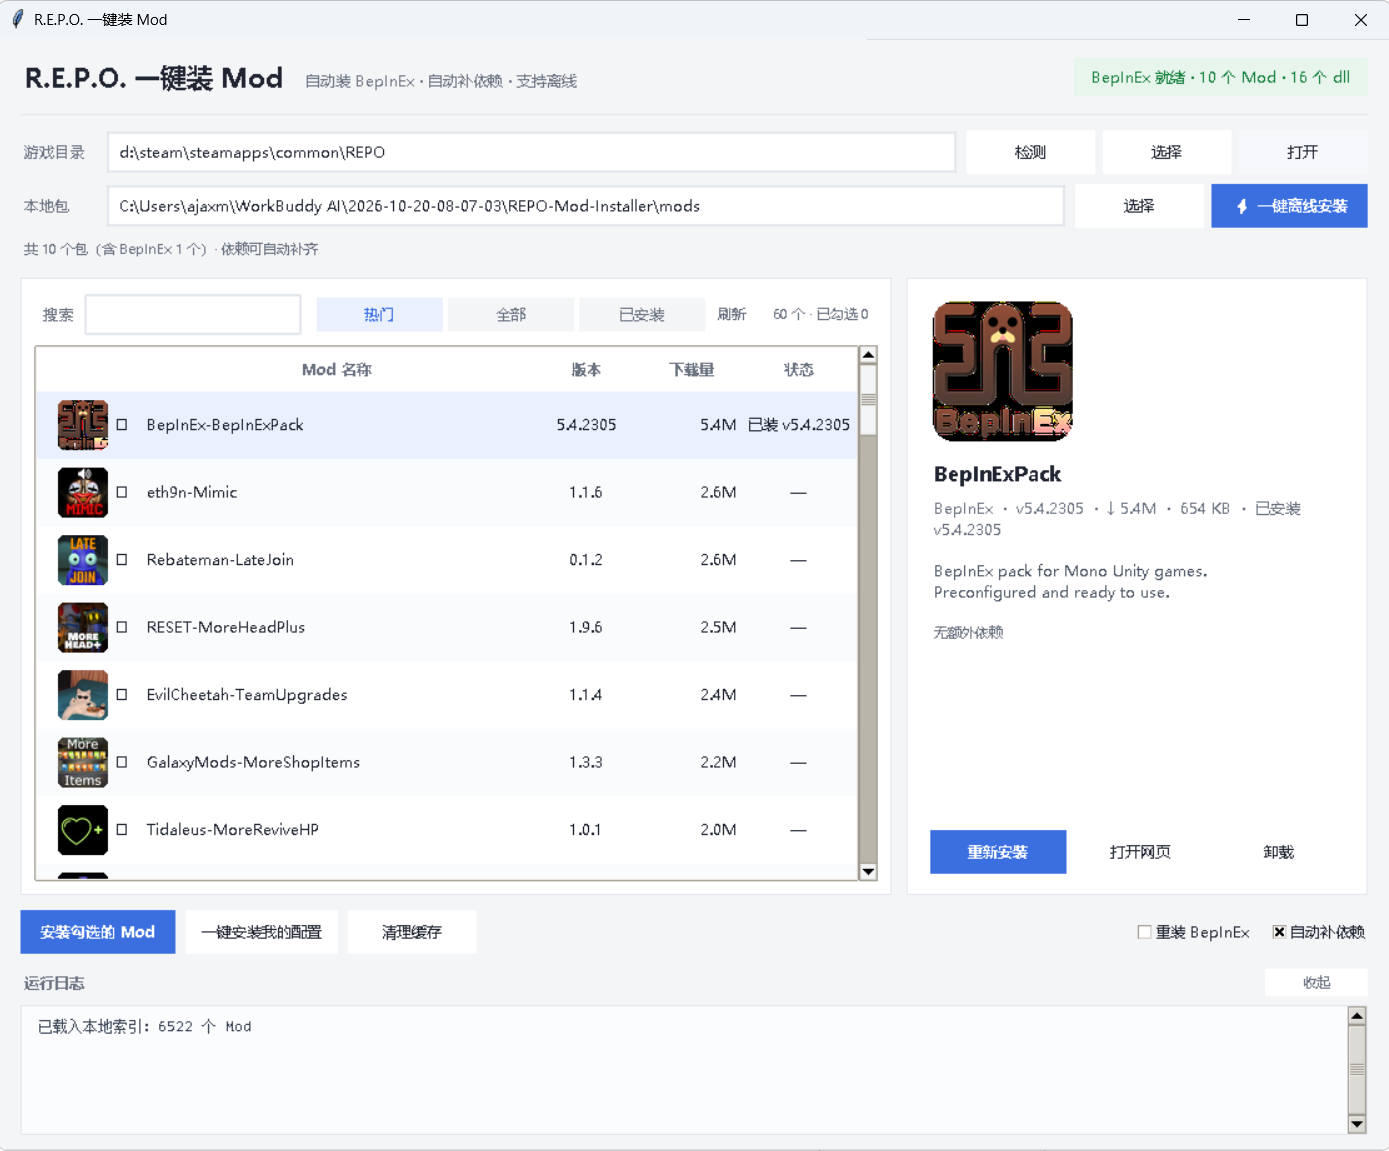
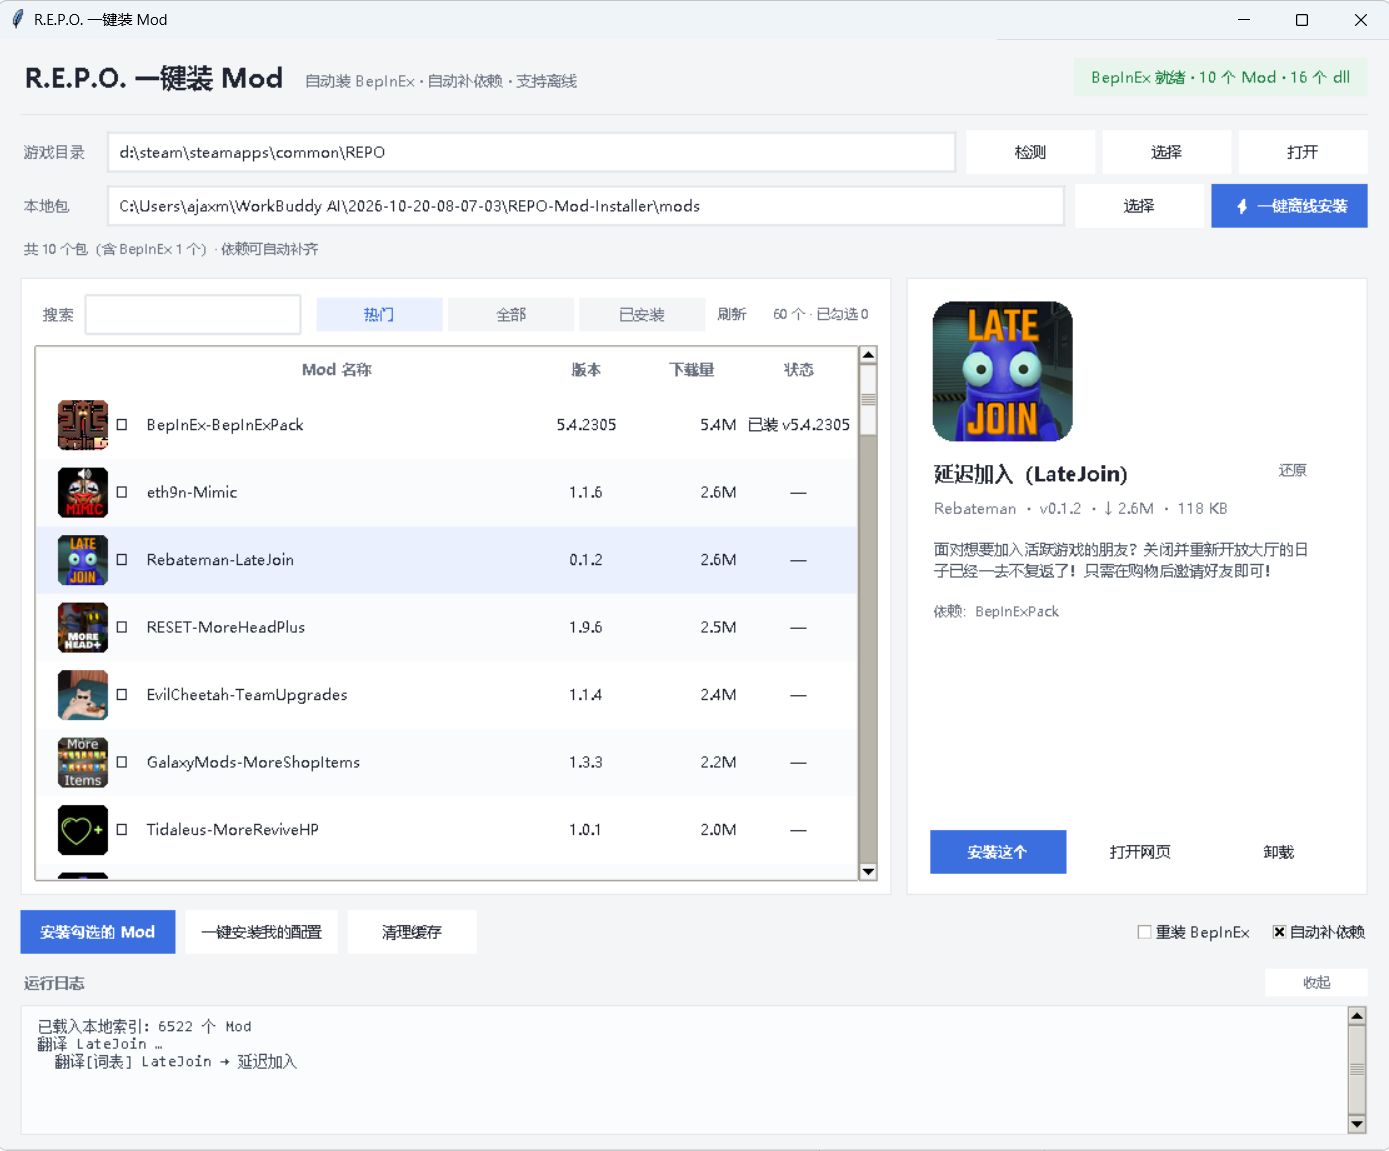
feat: 详情面板加「翻译」按钮，Mod 名字和简介一键中文化
- core: 新增免费翻译模块，Google(gtx) + MyMemory 双源自动切换，无需 API Key
- 启动时后台探测 Google 连通性；没配代理会顺手试本机 7897/7890 等常见端口
- 名字优先走内置词表（按社区 6522 个包的实际用词统计）：MoreShopItems → 更多商店物品，
  不联网、确定性输出；词表未覆盖的专有名词才走在线翻译
- 简介走在线接口，译文缓存到 data/translate_cache.json，二次点击秒出且断网可用
- 翻译结果经队列回主线程落地，避免跨线程操作 Tk
- 翻译期间切换选中项会丢弃过期结果，不会写到别的 Mod 详情里
- README 增加翻译章节与 FAQ

diff --git a/core.py b/core.py
@@ -17,6 +17,7 @@ import re
 import sys
 import json
 import time
+import html
 import shutil
 import zipfile
 import tempfile
@@ -1073,3 +1074,259 @@ def check_dependencies():
             "缺少 requests 库。请在命令行运行：\n    pip install requests\n"
             "或者直接运行 启动.bat（会自动安装）"
         )
+
+
+# ============================================================
+# 翻译（免费源，不需要 API Key）
+# ============================================================
+
+TRANS_CACHE_PATH = DATA_DIR / "translate_cache.json"
+TRANS_CACHE_MAX = 3000          # 缓存条数上限，超了丢最旧的
+
+_trans_mem = None               # 内存缓存，避免每次点都读盘
+
+
+def _load_trans_cache():
+    global _trans_mem
+    if _trans_mem is not None:
+        return _trans_mem
+    data = {}
+    try:
+        if TRANS_CACHE_PATH.exists():
+            with open(TRANS_CACHE_PATH, "r", encoding="utf-8") as f:
+                raw = json.load(f)
+            if isinstance(raw, dict):
+                data = raw
+    except Exception:
+        data = {}
+    _trans_mem = data
+    return data
+
+
+def _save_trans_cache(cache):
+    global _trans_mem
+    _trans_mem = cache
+    try:
+        if len(cache) > TRANS_CACHE_MAX:
+            for k in list(cache.keys())[:len(cache) - TRANS_CACHE_MAX]:
+                cache.pop(k, None)
+        DATA_DIR.mkdir(parents=True, exist_ok=True)
+        with open(TRANS_CACHE_PATH, "w", encoding="utf-8") as f:
+            json.dump(cache, f, ensure_ascii=False)
+    except Exception:
+        pass
+
+
+def _tr_google(text, target, proxy, timeout=8):
+    """Google 翻译的免费网页接口（client=gtx），无需 Key"""
+    r = _session(proxy).get(
+        "https://translate.googleapis.com/translate_a/single",
+        params={"client": "gtx", "sl": "auto", "tl": target, "dt": "t", "q": text},
+        timeout=timeout,
+    )
+    r.raise_for_status()
+    data = r.json()
+    out = "".join(seg[0] for seg in data[0] if seg and seg[0])
+    return out.strip()
+
+
+def _tr_mymemory(text, target, proxy, timeout=8):
+    """MyMemory 免费接口，匿名每天 5000 字符，国内可直连"""
+    r = _session(proxy).get(
+        "https://api.mymemory.translated.net/get",
+        params={"q": text[:480], "langpair": f"en|{target}"},
+        timeout=timeout,
+    )
+    r.raise_for_status()
+    d = r.json()
+    out = ((d.get("responseData") or {}).get("translatedText") or "").strip()
+    if not out or "MYMEMORY WARNING" in out.upper() or "QUOTA" in out.upper():
+        raise RuntimeError("免费额度用尽或返回异常")
+    return html.unescape(out)
+
+
+TRANS_PROVIDERS = [("google", _tr_google), ("mymemory", _tr_mymemory)]
+
+_GOOGLE_OK = None               # 启动时探测结果，None = 还没测
+_AUTO_PROXY = ""                # 探测到的本机代理，仅用于翻译
+
+# 常见本地代理端口（Clash / V2Ray / Shadowsocks）
+_LOCAL_PROXY_PORTS = ("7897", "7890", "10809", "10808", "1080")
+
+# 这些是专有名词，拆开反而翻不出来（BepInExPack 不能变成 Bep In Ex Pack）
+_TRANS_KEEP = ("bepinex", "repolib", "menulib", "lethallib", "xunity",
+               "autotranslator")
+
+
+def probe_translation(proxy="", log=None):
+    """
+    后台探一下 Google 能不能连上，能连就优先用它（译文质量比 MyMemory 好）。
+    没配代理时顺手试试本机常见代理端口，通了就自动借用，只影响翻译。
+    """
+    global _GOOGLE_OK, _AUTO_PROXY
+    if _GOOGLE_OK is not None:
+        return _GOOGLE_OK
+
+    if proxy:
+        try:
+            _tr_google("hello", "zh-CN", proxy, timeout=3)
+            _GOOGLE_OK, _AUTO_PROXY = True, proxy
+            return True
+        except Exception:
+            pass
+    else:
+        try:
+            _tr_google("hello", "zh-CN", "", timeout=3)
+            _GOOGLE_OK = True
+            return True
+        except Exception:
+            pass
+        for port in _LOCAL_PROXY_PORTS:
+            p = f"http://127.0.0.1:{port}"
+            try:
+                _tr_google("hello", "zh-CN", p, timeout=3)
+                _GOOGLE_OK, _AUTO_PROXY = True, p
+                if log:
+                    log(f"翻译：检测到本机代理 {p}，走 Google（译文更准）")
+                return True
+            except Exception:
+                continue
+
+    _GOOGLE_OK = False
+    if log:
+        log("翻译：Google 连不上，改用 MyMemory 免费接口")
+    return False
+
+
+def humanize_name(text):
+    """
+    把 MoreShopItems_Updated 这种标识符拆成可翻译的自然短语。
+    专有名词（BepInEx / REPOLib / MenuLib）保持原样。
+    """
+    text = re.sub(r"[_\-]+", " ", text or "").strip()
+    out = []
+    for word in text.split():
+        low = word.lower()
+        if len(word) >= 8 and not any(k in low for k in _TRANS_KEEP):
+            word = re.sub(r"(?<=[a-z0-9])(?=[A-Z])", " ", word)
+        out.append(word)
+    return re.sub(r"\s+", " ", " ".join(out)).strip()
+
+
+# Mod 名常用词表：整句都是这些词时直接拼中文，比机翻准，而且不用联网。
+# 词表按 Thunderstore 上 R.E.P.O. 社区 6522 个包的实际用词统计出来的。
+_NAME_GLOSSARY = {
+    # 功能词
+    "the": "", "of": "的", "for": "用于", "and": "与", "in": "内", "by": "由",
+    "with": "带", "my": "我的", "all": "全部", "no": "无", "not": "不",
+    "more": "更多", "plus": "增强", "better": "更好的", "best": "最佳",
+    "custom": "自定义", "random": "随机", "infinite": "无限", "ultimate": "终极",
+    "extra": "额外", "new": "新", "old": "旧", "fixed": "修复", "fix": "修复",
+    "test": "测试", "hidden": "隐藏", "shared": "共享", "silly": "搞怪",
+    # 游戏内容
+    "mod": "模组", "mods": "模组", "pack": "包", "modpack": "整合包",
+    "repo": "R.E.P.O.", "item": "物品", "items": "物品", "stuff": "道具",
+    "shop": "商店", "valuable": "贵重物品", "valuables": "贵重物品",
+    "value": "价值", "gem": "宝石", "gold": "金币", "money": "金钱",
+    "cart": "推车", "box": "箱子", "truck": "卡车", "drone": "无人机",
+    "gun": "枪", "weapon": "武器", "weapons": "武器", "melee": "近战",
+    "enemy": "敌人", "enemies": "敌人", "monster": "怪物", "monsters": "怪物",
+    "hunter": "猎人", "huntsman": "猎人", "boss": "首领", "npc": "NPC",
+    "player": "玩家", "players": "玩家", "friend": "朋友", "friends": "朋友",
+    "team": "团队", "lobby": "大厅", "host": "房主", "server": "服务器",
+    "game": "游戏", "level": "关卡", "levels": "关卡", "map": "地图",
+    "maps": "地图", "arena": "竞技场", "extraction": "撤离", "spawn": "生成",
+    "revive": "复活", "death": "死亡", "life": "生命", "health": "生命值",
+    "hp": "生命值", "stamina": "体力", "speed": "速度", "damage": "伤害",
+    "upgrade": "升级", "upgrades": "升级", "buff": "增益", "quest": "任务",
+    "unlock": "解锁", "achievement": "成就", "score": "分数", "coin": "硬币",
+    # 外观与音效
+    "cosmetic": "外观", "cosmetics": "外观", "hat": "帽子", "hats": "帽子",
+    "robe": "长袍", "skin": "皮肤", "skins": "皮肤", "plush": "玩偶",
+    "paint": "涂装", "painting": "画作", "paintings": "画作", "theme": "主题",
+    "music": "音乐", "song": "歌曲", "songs": "歌曲", "sound": "音效",
+    "sounds": "音效", "audio": "音频", "boombox": "音响", "voice": "语音",
+    "chat": "聊天", "meme": "梗", "joke": "玩笑",
+    # 界面与系统
+    "menu": "菜单", "ui": "界面", "hud": "HUD", "config": "配置",
+    "setting": "设置", "settings": "设置", "key": "按键", "keybind": "按键绑定",
+    "translation": "汉化", "translate": "翻译", "language": "语言",
+    "replacer": "替换", "remover": "移除", "delete": "删除", "save": "存档",
+    "loader": "加载器", "lib": "库", "library": "库", "api": "API",
+    "sync": "同步", "multiplayer": "联机", "solo": "单人", "bot": "机器人",
+    "vanilla": "原版", "dlc": "DLC", "cat": "猫", "duck": "鸭子",
+    "mimic": "模仿者", "late": "延迟", "join": "加入", "head": "头部",
+    "body": "身体", "hand": "手", "eye": "眼睛", "scale": "体型",
+    "size": "大小", "gravity": "重力", "jump": "跳跃", "sprint": "冲刺",
+    "flashlight": "手电筒", "camera": "摄像机", "recoil": "后坐力",
+    "empress": "女皇", "king": "国王", "queen": "女王", "minecraft": "我的世界",
+}
+
+
+def translate_name(name):
+    """
+    按词表拼中文名：MoreShopItems → 更多商店物品。
+    有任何一个词不认识就返回空字符串，交给在线翻译兜底。
+    """
+    words = re.findall(r"[A-Za-z]+|\d+", humanize_name(name))
+    if not words:
+        return ""
+    out = []
+    for w in words:
+        if w.isdigit():
+            out.append(w)
+            continue
+        zh = _NAME_GLOSSARY.get(w.lower())
+        if zh is None:
+            return ""
+        out.append(zh)
+    return "".join(out)
+
+
+def translate_text(text, target="zh-CN", proxy="", log=None):
+    """
+    翻译一段英文。带本地缓存，翻过的句子以后秒出且断网可用。
+    依次尝试免费源，全都失败返回空字符串（不抛异常）。
+    """
+    text = (text or "").strip()
+    if not text:
+        return ""
+    if re.search(r"[\u4e00-\u9fff]", text):      # 已经是中文
+        return text
+
+    cache = _load_trans_cache()
+    key = f"{target}|{text}"
+    if key in cache:
+        return cache[key]
+
+    # 有代理（配置的或探测到的）或 Google 直连可用 → 先走 Google，否则先走 MyMemory
+    eff = proxy or _AUTO_PROXY
+    use_google = bool(eff) or bool(_GOOGLE_OK)
+    order = TRANS_PROVIDERS if use_google else list(reversed(TRANS_PROVIDERS))
+    for pname, fn in order:
+        try:
+            out = fn(text, target, eff)
+            if out and out.lower() != text.lower():
+                cache[key] = out
+                _save_trans_cache(cache)
+                if log:
+                    log(f"  翻译[{pname}] {text[:36]} → {out[:36]}")
+                return out
+        except Exception as e:
+            if log:
+                log(f"  翻译源 {pname} 不可用：{type(e).__name__}")
+    return ""
+
+
+def translate_package(name, desc, proxy="", log=None):
+    """
+    翻译一个 Mod 的名字和简介，返回 (中文名, 中文简介)。
+    名字先查词表（MoreShopItems_Updated → 更多商店物品），查不到再联网翻。
+    """
+    tr_name = translate_name(name)
+    if not tr_name:
+        tr_name = translate_text(humanize_name(name), proxy=proxy, log=log)
+    elif log:
+        log(f"  翻译[词表] {name} → {tr_name}")
+    tr_desc = translate_text((desc or "")[:480], proxy=proxy, log=log) if desc else ""
+    return tr_name, tr_desc

diff --git a/mod_installer.py b/mod_installer.py
@@ -174,15 +174,24 @@ class App:
         self.selected = set()
         self.busy = False
         self.log_queue = queue.Queue()
+        self.tr_queue = queue.Queue()
         self._hover = None
         self._base_tag = {}
         self._log_open = True
+        self._tr_on = False
+        self._raw_name = ""
 
         self._setup_style()
         self._build()
         self._fit_window()
 
         self.icons = IconCache(root, log=self._log)
+
+        # 后台探一下 Google 翻译通不通，通了就优先用它（译文比 MyMemory 顺）
+        threading.Thread(
+            target=core.probe_translation,
+            kwargs={"proxy": (self.cfg.get("proxy") or "").strip()},
+            daemon=True).start()
         self._init_local_dir()
         self._detect_game()
         self._load_index_from_cache()
@@ -414,9 +423,15 @@ class App:
         self.d_icon = tk.Label(pad, bg=CARD)
         self.d_icon.pack(anchor="w")
 
-        self.d_name = tk.Label(pad, text="", bg=CARD, fg=TEXT, font=(F, 12, "bold"),
-                               anchor="w", justify="left", wraplength=300)
-        self.d_name.pack(fill="x", pady=(10, 2))
+        self.name_row = tk.Frame(pad, bg=CARD)
+        self.name_row.pack(fill="x", pady=(10, 2))
+        self.d_name = tk.Label(self.name_row, text="", bg=CARD, fg=TEXT,
+                               font=(F, 12, "bold"), anchor="w", justify="left",
+                               wraplength=250)
+        self.d_name.pack(side="left", fill="x", expand=True)
+        self.btn_trans = ttk.Button(self.name_row, text="翻译", style="Mini.TButton",
+                                    command=self._translate_detail)
+        self.btn_trans.pack(side="right", anchor="n", padx=(6, 0))
 
         self.d_meta = tk.Label(pad, text="", bg=CARD, fg=MUTED, font=(F, 9),
                                anchor="w", justify="left", wraplength=300)
@@ -519,6 +534,13 @@ class App:
                 self.log.insert("end", msg + "\n")
                 self.log.see("end")
                 self.log.configure(state="disabled")
+        except queue.Empty:
+            pass
+        # 后台线程的翻译结果也在这里落地，避免跨线程操作 Tk
+        try:
+            while True:
+                tn, td, iid = self.tr_queue.get_nowait()
+                self._apply_translation(tn, td, iid)
         except queue.Empty:
             pass
         self.root.after(120, self._drain_log)
@@ -837,6 +859,8 @@ class App:
         self.d_desc.configure(text="")
         self.d_deps.configure(text="")
         self.btn_detail_install.configure(state="disabled")
+        self.btn_trans.configure(text="翻译", state="disabled")
+        self._tr_on = False
 
     def _current_pkg(self):
         sel = self.tree.selection()
@@ -857,7 +881,10 @@ class App:
         db = core.load_installed()
         inst = next((v for k, v in db.items() if k.lower() == name.lower()), None)
 
-        self.d_name.configure(text=pkg.get("name") or name, fg=TEXT)
+        self._tr_on = False
+        self._raw_name = pkg.get("name") or name
+        self.d_name.configure(text=self._raw_name, fg=TEXT)
+        self.btn_trans.configure(text="翻译", state="normal")
 
         bits = [pkg.get("owner") or "", f"v{latest['version_number']}",
                 f"↓ {self._fmt_dl(latest.get('downloads'))}"]
@@ -891,6 +918,50 @@ class App:
         if icon_url:
             self.icons.get(icon_url, 112,
                            lambda photo: self._set_detail_icon(photo))
+
+    # -------------------------------------------------- 翻译
+    def _translate_detail(self):
+        pkg, latest = self._current_pkg()
+        if not pkg:
+            return
+        if self._tr_on:                      # 已经翻过 → 还原原文
+            self._show_detail()
+            return
+
+        name = pkg.get("name") or pkg["full_name"]
+        desc = (latest.get("description") or "").strip()[:480]
+        proxy = (self.cfg.get("proxy") or "").strip()
+
+        self.btn_trans.configure(text="翻译中…", state="disabled")
+        self._log(f"翻译 {name} …")
+
+        def work():
+            try:
+                tn, td = core.translate_package(name, desc, proxy=proxy, log=self._log)
+            except Exception as e:
+                self._log(f"[错误] 翻译失败：{e}")
+                tn, td = "", ""
+            # 不直接碰 Tk，交给主线程的队列处理（跨线程调 Tk 会偶发崩）
+            self.tr_queue.put((tn, td, pkg["full_name"]))
+
+        threading.Thread(target=work, daemon=True).start()
+
+    def _apply_translation(self, tn, td, iid):
+        # 翻译期间用户可能已经点了别的 Mod，别把结果写到错误的详情里
+        sel = self.tree.selection()
+        if not sel or sel[0] != iid:
+            return
+        if not tn and not td:
+            self.btn_trans.configure(text="翻译", state="normal")
+            self._log("翻译失败：免费翻译源都连不上。可在 config.json 填 proxy"
+                      "（如 http://127.0.0.1:7897）后重试")
+            return
+        if tn:
+            self.d_name.configure(text=f"{tn}（{self._raw_name}）")
+        if td:
+            self.d_desc.configure(text=td[:400])
+        self.btn_trans.configure(text="还原", state="normal")
+        self._tr_on = True
 
     def _set_detail_icon(self, photo):
         if photo:
